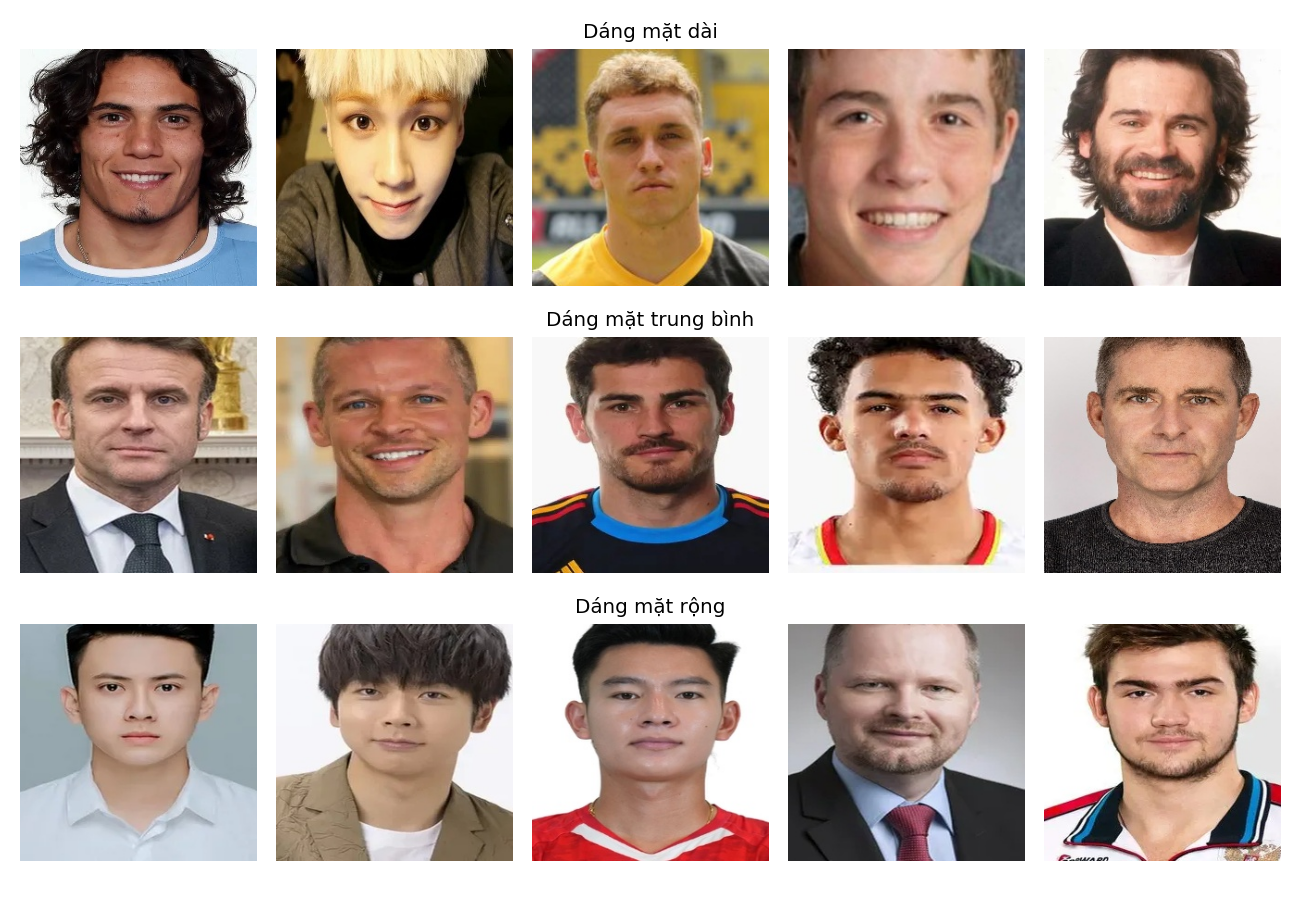
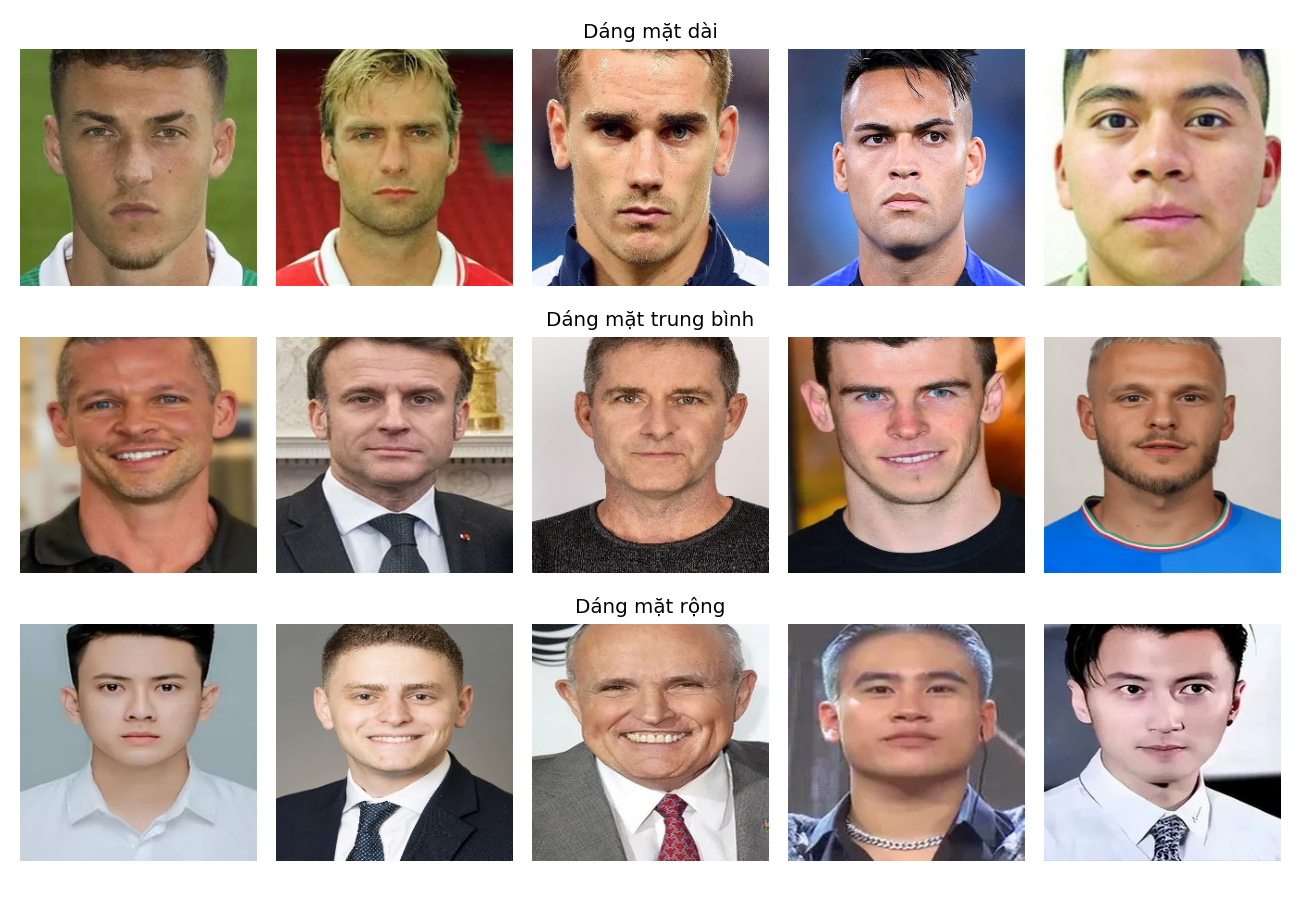
Them chuan_hoa_anh.py (dua anh ve JPG 256x256), cap nhat hinh 1.1, 1.2, 1.6 anh ro tran

diff --git a/chuan_hoa_anh.py b/chuan_hoa_anh.py
@@ -1,0 +1,98 @@
+"""
+chuan_hoa_anh.py - Đưa ảnh bất kỳ về đúng quy cách của bộ dữ liệu: JPG, 256 x 256, 3 kênh màu.
+
+Làm TRƯỚC 6 bước tiền xử lý (preprocess.py). Bước 1 của tiền xử lý chỉ KIỂM TRA quy cách,
+còn tệp này ĐƯA ảnh về quy cách đó, cho ảnh thu thập thêm hoặc ảnh truy vấn.
+
+Các bước cho mỗi ảnh:
+  1. Đọc ảnh mọi định dạng phổ biến (JPG, PNG, BMP, WEBP, TIFF...).
+       - Ảnh xám (1 kênh)        -> nhân thành 3 kênh R = G = B.
+       - Ảnh có kênh trong suốt A -> trộn lên nền trắng:  C = A*C_anh + (1 - A)*255,  A trong [0, 1].
+  2. Cắt hình vuông ở giữa ảnh, cạnh a = cạnh ngắn của ảnh (mặt nằm giữa ảnh nên không bị cắt).
+     Cắt chứ không co giãn hai chiều khác nhau, nên khuôn mặt KHÔNG bị kéo méo.
+  3. Thu nhỏ hình vuông a x a về 256 x 256 (tự code bằng numpy):
+       - Trung bình khối k x k, k = floor(a / 256):  điểm mới = (1/k^2) * tổng k x k điểm cũ.
+       - Phần lẻ còn lại: nội suy song tuyến tính
+             f = (1-u)(1-v) f(x,y) + u(1-v) f(x+1,y) + (1-u) v f(x,y+1) + u v f(x+1,y+1).
+     Ảnh nhỏ hơn 256 thì chỉ dùng nội suy (phóng to).
+  4. Ghi ra tệp .jpg (chất lượng 95), tên giữ nguyên, đổi đuôi thành .jpg.
+
+Chạy:
+    python chuan_hoa_anh.py <ảnh hoặc thư mục ảnh> <thư mục ra>
+Ví dụ:
+    python chuan_hoa_anh.py anh_moi/ data/anh_256/
+"""
+import os
+import sys
+import numpy as np
+import cv2
+
+import common as C
+from preprocess import thu_nho_khoi
+
+DUOI_DOC = (".jpg", ".jpeg", ".png", ".bmp", ".webp", ".tif", ".tiff", ".jfif")
+
+
+def doc_anh(path):
+    """Đọc ảnh -> mảng RGB uint8 (h, w, 3). Đọc qua bộ đệm byte để chạy được với đường dẫn tiếng Việt."""
+    buf = np.fromfile(path, dtype=np.uint8)
+    anh = cv2.imdecode(buf, cv2.IMREAD_UNCHANGED)
+    if anh is None:
+        return None
+    if anh.dtype != np.uint8:                      # ảnh 16 bit -> 8 bit
+        anh = (anh / 257.0).round().astype(np.uint8)
+    if anh.ndim == 2:                              # ảnh xám -> 3 kênh
+        return np.stack([anh] * 3, axis=2)
+    if anh.shape[2] == 4:                          # BGRA: trộn lên nền trắng
+        a = anh[:, :, 3:4] / 255.0
+        anh = np.round(a * anh[:, :, :3] + (1 - a) * 255.0).astype(np.uint8)
+    return anh[:, :, 2::-1].copy()                 # BGR -> RGB
+
+
+def ve_256(rgb):
+    """Cắt vuông ở giữa rồi đưa về 256 x 256 (không kéo méo)."""
+    h, w = rgb.shape[:2]
+    a = min(h, w)
+    y0, x0 = (h - a) // 2, (w - a) // 2
+    vuong = thu_nho_khoi(rgb[y0:y0 + a, x0:x0 + a], max(1, a // C.SIZE))
+    n = vuong.shape[0]
+    # tọa độ tâm điểm ảnh mới trên ảnh vuông n x n
+    toa_do = np.minimum((np.arange(C.SIZE) + 0.5) * n / C.SIZE - 0.5, n - 1.001).clip(0)
+    ys, xs = np.meshgrid(toa_do, toa_do, indexing="ij")
+    return np.clip(np.round(C.bilinear_sample(vuong, xs, ys)), 0, 255).astype(np.uint8)
+
+
+def chuan_hoa_mot(path_vao, thu_muc_ra):
+    """Chuẩn hóa một ảnh. Trả về (True, đường dẫn ra) hoặc (False, lý do)."""
+    rgb = doc_anh(path_vao)
+    if rgb is None:
+        return False, "khong doc duoc anh"
+    ra = ve_256(rgb)
+    ten = os.path.splitext(os.path.basename(path_vao))[0] + ".jpg"
+    path_ra = os.path.join(thu_muc_ra, ten)
+    ok, buf = cv2.imencode(".jpg", ra[:, :, ::-1], [cv2.IMWRITE_JPEG_QUALITY, 95])
+    if not ok:
+        return False, "khong ghi duoc JPG"
+    buf.tofile(path_ra)
+    return True, path_ra
+
+
+def run(vao, thu_muc_ra):
+    os.makedirs(thu_muc_ra, exist_ok=True)
+    if os.path.isdir(vao):
+        ds = [os.path.join(vao, f) for f in sorted(os.listdir(vao)) if f.lower().endswith(DUOI_DOC)]
+    else:
+        ds = [vao]
+    dat = 0
+    for p in ds:
+        ok, kq = chuan_hoa_mot(p, thu_muc_ra)
+        dat += ok
+        print(("OK   " if ok else "LOI  ") + os.path.basename(p) + ("" if ok else "  -> " + kq))
+    print(f"Xong: {dat}/{len(ds)} anh -> {thu_muc_ra}")
+
+
+if __name__ == "__main__":
+    if len(sys.argv) != 3:
+        print(__doc__)
+        sys.exit(1)
+    run(sys.argv[1], sys.argv[2])
